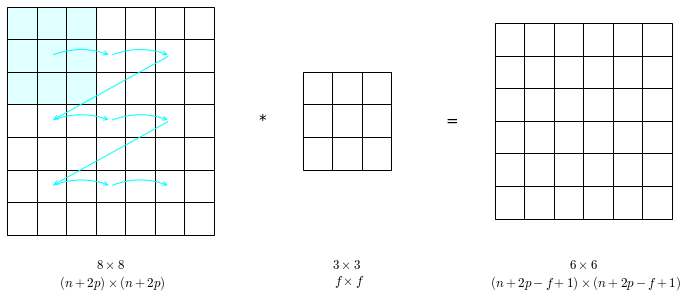
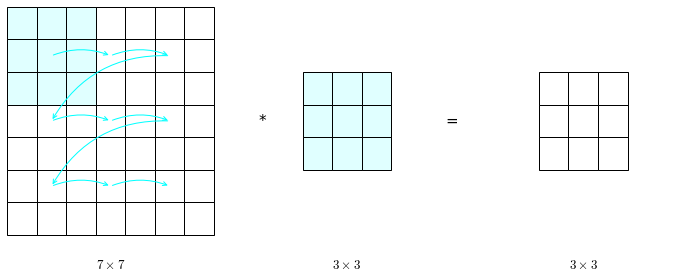
update ml33

diff --git a/docs/pages/ML-33-DeepLearningStrategy.md b/docs/pages/ML-33-DeepLearningStrategy.md
@@ -96,54 +96,15 @@ $$n+2p - f + 1 = n \qquad \Rightarrow \qquad p = \frac{f-1}{2}$$
 This works because the filter, by convention, has always odd dimensions. The reason behind this decision is to have symmetric filtering and to have a central cell of the filter.
 
 ## Stride
-Strided convolution is another fundamental building block for implementing convolutional neural networks
-
-
-```python
-import matplotlib.patches as p
-
-canvas = np.array(list(' '*49)).reshape(7, 7)
-fig, axes = plt.subplots(1, 3, figsize=(12, 4))
-ax1, ax2, ax3 = axes.ravel()
-fig.patch.set_visible(False)
-tabs = []
-tabs.append(ax1.table(canvas, loc='center', colWidths=[0.05]*7, cellLoc='center'))
-tabs.append(ax2.table(np.array(list(' '*9)).reshape(3, 3), loc='center', colWidths=[0.05]*6, cellLoc='center'))
-tabs.append(ax3.table(np.array(list(' '*36)).reshape(6, 6), loc='center', colWidths=[0.05]*6, cellLoc='center'))
-t = ax2.text(0.05, 0.5, '*', va='center', ha='left', transform=ax2.transAxes, fontsize=15)
-t = ax3.text(-.2, 0.5, '=', va='center', ha='left', transform=ax3.transAxes, fontsize=15)
-ax1.text(0.5, -.2, '$8\\times 8 $\n $(n+2p) \\times (n+2p)$', va='top', ha='center', transform=ax1.transAxes, fontsize=13)
-ax2.text(0.5, -.2, '$3\\times 3$\n $f \\times f$', va='top', ha='center', transform=ax2.transAxes, fontsize=13)
-ax3.text(0.5, -.2, '$6\\times 6 $\n $(n+2p-f+1) \\times (n+2p-f+1)$', va='top', ha='center', transform=ax3.transAxes, fontsize=13)
-
-for ax, tab in zip(axes.ravel(), tabs):
-    tab.auto_set_font_size(False)
-    tab.set_fontsize(13)
-    tab.scale(3, 3)
-    ax.axis('off')
-    ax.axis('tight')
-    ax.set_aspect('equal')
-    
-ax1.annotate('', (3/14, 11/14), (7/14, 11/14), xycoords=tabs[0], textcoords=tabs[0], va='center', ha='center', arrowprops=dict(connectionstyle='arc3,rad=.2', arrowstyle="<-", edgecolor='cyan'))
-ax1.annotate('', (7/14, 11/14), (11/14, 11/14), xycoords=tabs[0], textcoords=tabs[0], va='center', ha='center', arrowprops=dict(connectionstyle='arc3,rad=.2', arrowstyle="<-", edgecolor='cyan'))
-ax1.annotate('', (3/14, 7/14), (7/14, 7/14), xycoords=tabs[0], textcoords=tabs[0], va='center', ha='center', arrowprops=dict(connectionstyle='arc3,rad=.2', arrowstyle="<-", edgecolor='cyan'))
-ax1.annotate('', (7/14, 7/14), (11/14, 7/14), xycoords=tabs[0], textcoords=tabs[0], va='center', ha='center', arrowprops=dict(connectionstyle='arc3,rad=.2', arrowstyle="<-", edgecolor='cyan'))
-ax1.annotate('', (3/14, 3/14), (7/14, 3/14), xycoords=tabs[0], textcoords=tabs[0], va='center', ha='center', arrowprops=dict(connectionstyle='arc3,rad=.2', arrowstyle="<-", edgecolor='cyan'))
-ax1.annotate('', (7/14, 3/14), (11/14, 3/14), xycoords=tabs[0], textcoords=tabs[0], va='center', ha='center', arrowprops=dict(connectionstyle='arc3,rad=.2', arrowstyle="<-", edgecolor='cyan'))
-ax1.annotate('', (11/14, 11/14), (3/14, 7/14), xycoords=tabs[0], textcoords=tabs[0], va='center', ha='center', arrowprops=dict(connectionstyle='arc3,rad=0', arrowstyle="<-", edgecolor='cyan'))
-ax1.annotate('', (11/14, 7/14), (3/14, 3/14), xycoords=tabs[0], textcoords=tabs[0], va='center', ha='center', arrowprops=dict(connectionstyle='arc3,rad=0', arrowstyle="<-", edgecolor='cyan'))
-
-canvas = tabs[0].get_celld()
-for i in range(3):
-    for j in range(3):
-        canvas[i, j].set_facecolor('lightcyan')
-```
+Strided convolution is another fundamental building block for implementing convolutional neural networks. The **stride** of a convolution, is the amount of cell traveled by the kernel while it moves across the input image. The convolutions that we have seen until now all had a stride of 1. When the stride = 2, the kernel will skip one cell in traveling east and will also skip one cell in traveling south, this means that, with a *valid padding*, the output image will shrink even more than when the stride =1. For a $7 \times 7$ input image convoluted with a $3 \times 3$ kernel, a stride = 2 will produce a $3 \times 3$ output image (<a href="fig:stride">figure below</a>).
 
 
     
-![png](ML-33-DeepLearningStrategy_files/ML-33-DeepLearningStrategy_12_0.png)
-    
 
+<figure id="fig:stride">
+    <img src="{{site.baseurl}}/pages/ML-33-DeepLearningStrategy_files/ML-33-DeepLearningStrategy_12_0.png" alt="png">
+    <figcaption>Figure 80. The result of a strided convolution on a $7 \times 7$ input image</figcaption>
+</figure>
 
 
 ```python
